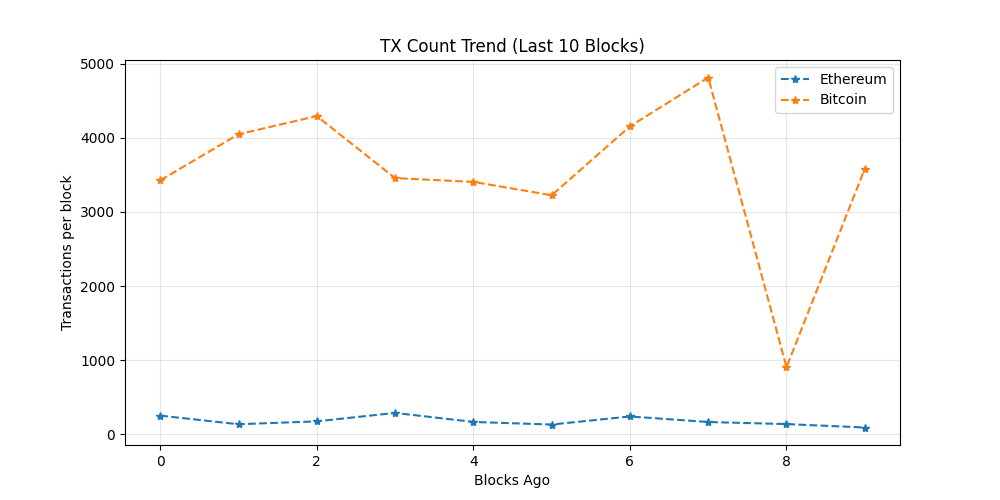
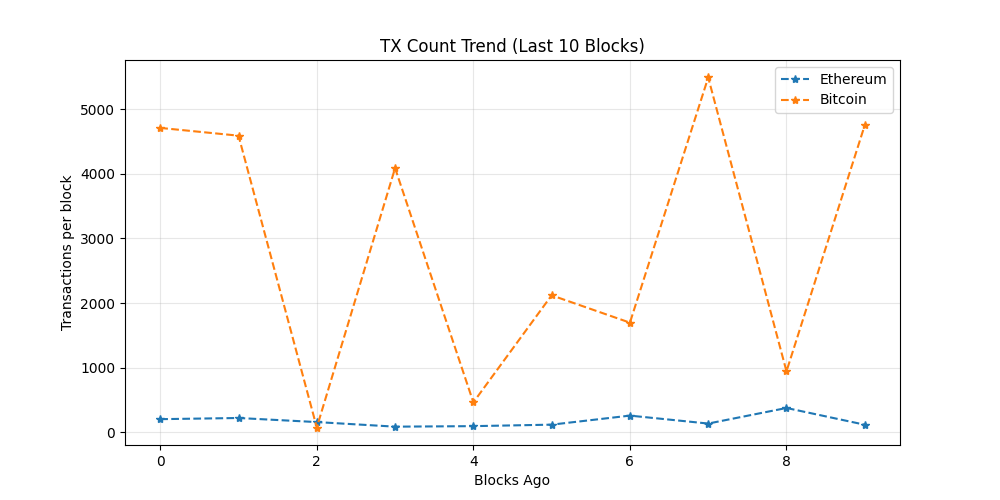
chore: update on-chain dashboard

diff --git a/README.md b/README.md
@@ -19,7 +19,7 @@ The README itself acts as the dashboard and is regenerated automatically on a 6 
 demonstrating a production-style, infrastructure-focused observability workflow rather
 than a traditional UI-driven approach.
 
-_Last updated: 2026-03-15 03:30 UTC_
+_Last updated: 2026-03-15 07:13 UTC_
 
 ## API Usage (GetBlock.io)
 - Calls used: **24**
@@ -27,8 +27,8 @@ _Last updated: 2026-03-15 03:30 UTC_
 ## Network Metrics
 | Chain | Block Height | TX Count | TPS (10 blk avg) | Block Util | Avg Fee |
 |------|-------------|----------|------------------|------------|---------|
-| Ethereum | 24660209 | 90 | 7.5 | 41.49% | 0.0 Gwei |
-| Bitcoin | 940717 | 3583 | 5.84 | 99.79% | N/A |
+| Ethereum | 24661318 | 117 | 9.75 | 73.97% | 0.0 Gwei |
+| Bitcoin | 940742 | 4752 | 4.85 | 99.79% | N/A |
 
 ## Visuals
 ### Transactions Trend
@@ -43,9 +43,10 @@ _Last updated: 2026-03-15 03:30 UTC_
 ## Whale Alerts (latest block)
 - Transaction hashes are truncated for readability.
 - Full hashes are available in `dashboards/metrics.json`
-- Bitcoin | 184.75 BTC | `f47ddf3319fb…`
-- Bitcoin | 206.53 BTC | `a84c436173e4…`
-- Bitcoin | 140.73 BTC | `430950862f01…`
+- Bitcoin | 801.52 BTC | `59709a6d39e2…`
+- Bitcoin | 206.31 BTC | `572b0f0ad30a…`
+- Bitcoin | 206.31 BTC | `23d5639b88ee…`
+- Bitcoin | 140.59 BTC | `85edc16a9954…`
 
 ## Run locally
 
